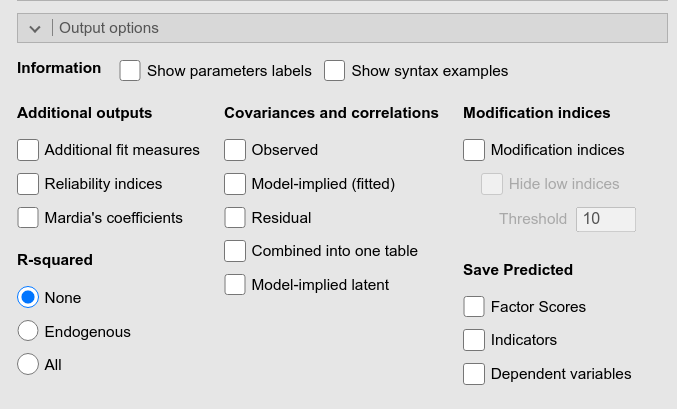
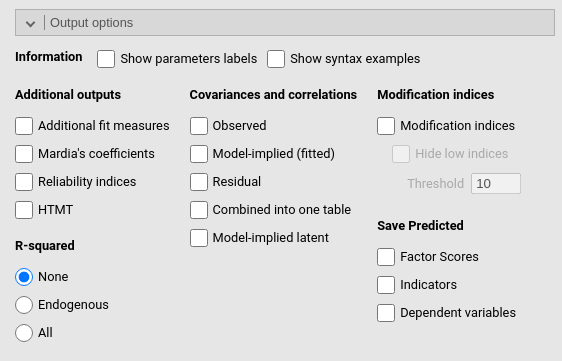
updates

diff --git a/docs/syntax.html b/docs/syntax.html
@@ -501,22 +501,102 @@ coefficients.</p>
 <p>By comparing the uniquely assigned label (<code>p2</code>,
 <code>p3</code>, <code>p4</code>), we know which comparison is
 tested.</p>
-</div>
-<div id="model-options" class="section level2">
-<h2>Model Options</h2>
 <p><img src=" pics/syntax/panel_model.png " class="img-responsive" alt=""></p>
 <p>The <span class="option">Estimation Method</span> allows choosing the
 right estimation method available for a model. The <span
 class="option">Automatic</span> option (default) lets
 <code>lavaan</code> choose the right method depending to the type of
 model one is estimating.</p>
+<p><img src=" pics/syntax/panel_model2.png " class="img-responsive" alt=""></p>
 <p><span class="option">Constraints tests</span> computes the <span
 class="math inline">\(\chi^2\)</span> test for contrainted coefficients
 (if any). In case one has more than one contraints, each constraint is
 tested uniquely (if <span class="option">Univariate</span> is flagged)
 and in addition to the previous ones (if <span
 class="option">Cumulative</span> is flagged).</p>
-<p>Options are:</p>
+<p>Under <span class="option">Data</span> one can decide how to handle
+missing values.</p>
+<p>The options for this panel are are:</p>
+<table class="options">
+<tr>
+<td>
+<span class="option">Method</span>
+</td>
+<td>
+The estimator to be used (cf. lavaan R package). Can be one of the
+following: “ML” for maximum likelihood, “GLS” for (normal theory)
+generalized least squares, “WLS” for weighted least squares (sometimes
+called ADF estimation), “ULS” for unweighted least squares, “DWLS” for
+diagonally weighted least squares, and “DLS” for
+distributionally-weighted least squares. These are the main options that
+affect the estimation. For convenience, the “ML” option can be extended
+as “MLM”, “MLMV”, “MLMVS”, “MLF”, and “MLR”. The estimation will still
+be plain “ML”, but now with robust standard errors and a robust (scaled)
+test statistic. For “MLM”, “MLMV”, “MLMVS”, classic robust standard
+errors are used (se=“robust.sem”); for “MLF”, standard errors are based
+on first-order derivatives (information = “first.order”); for “MLR”,
+<code>Huber-White</code> robust standard errors are used
+(se=“robust.huber.white”). In addition, “MLM” will compute a
+Satorra-Bentler scaled (mean adjusted) test statistic
+(test=“satorra.bentler”), “MLMVS” will compute a mean and variance
+adjusted test statistic (Satterthwaite style)
+(test=“mean.var.adjusted”), “MLMV” will compute a mean and variance
+adjusted test statistic (scaled and shifted) (test=“scaled.shifted”),
+and “MLR” will compute a test statistic which is asymptotically
+equivalent to the Yuan-Bentler T2-star test statistic
+(test=“yuan.bentler.mplus”). Analogously, the estimators “WLSM” and
+“WLSMV” imply the “DWLS” estimator (not the “WLS” estimator) with robust
+standard errors and a mean or mean and variance adjusted test statistic.
+Estimators “ULSM” and “ULSMV” imply the “ULS” estimator with robust
+standard errors and a mean or mean and variance adjusted test statistic.
+</td>
+</tr>
+<tr>
+<td>
+<span class="option">ML likelihood approach</span>
+</td>
+<td>
+Only relevant for ML estimation. If “Wishart”, the Wishart likelihood
+approach is used. In this approach, the covariance matrix has been
+divided by N-1, and both standard errors and test statistics are based
+on N-1. If “Normal” or “Automatic”, the normal likelihood approach is
+used. Here, the covariance matrix has been divided by N, and both
+standard errors and test statistics are based on N.
+</td>
+</tr>
+<tr>
+<td>
+<span class="option">Missing values</span>
+</td>
+<td>
+Handling of missing values. <code>listwise</code> delete rows with
+missing. <code>FIML</code> for ‘full information’ maximum likelihood
+estimation. <code>FIML (including fixed x)</code> for ‘full information’
+maximum likelihood estimation that includes also the fixed exogenous
+variables. <code>Two stages (robust)</code> uses a two stage appraoch
+whereas <code>Pairwise</code> deletes case pairwise before computing the
+covariances between variables.
+</td>
+</tr>
+<tr>
+<td>
+<span class="option">Univariate</span>
+</td>
+<td>
+Score test (or Lagrange Multiplier test) for fixed or constrained
+parameters in model.
+</td>
+</tr>
+<tr>
+<td>
+<span class="option">Cumulative</span>
+</td>
+<td>
+Score test for all fixed or constrained parameters in model (cumulative
+tests).
+</td>
+</tr>
+</table>
 </div>
 <div id="type-of-models" class="section level2">
 <h2>Type of models</h2>
@@ -831,7 +911,9 @@ shows additional reliability indices
 </td>
 <td>
 <code>TRUE</code> or <code>FALSE</code> (default), show
-Heterotrait-monotrait (HTMT) ratio of correlations
+Heterotrait-monotrait (HTMT) ratio of correlations as reccomended by
+<span class="citation">Henseler, Ringle, and Sarstedt (<a
+href="#ref-henseler2015new" role="doc-biblioref">2015</a>)</span>
 </td>
 </tr>
 <tr>
@@ -1092,6 +1174,12 @@ or <a href="mailto:mcfanda@gmail.com">send me an email</a>
 Epskamp, Sacha. 2015. <span>“semPlot: Unified Visualizations of
 Structural Equation Models.”</span> <em>Structural Equation Modeling: A
 Multidisciplinary Journal</em> 22 (3): 474–83.
+</div>
+<div id="ref-henseler2015new" class="csl-entry">
+Henseler, Jörg, Christian M Ringle, and Marko Sarstedt. 2015. <span>“A
+New Criterion for Assessing Discriminant Validity in Variance-Based
+Structural Equation Modeling.”</span> <em>Journal of the Academy of
+Marketing Science</em> 43: 115–35.
 </div>
 <div id="ref-predict" class="csl-entry">
 Rooij, Mark de, Julian D. Karch, Marjolein Fokkema, Zsuzsa Bakk, Bunga

diff --git a/docs/gui.html b/docs/gui.html
@@ -533,13 +533,96 @@ right estimation method available for a model. The <span
 class="option">Automatic</span> option (default) lets
 <code>lavaan</code> choose the right method depending to the type of
 model one is estimating.</p>
+<p><img src=" pics/syntax/panel_model2.png " class="img-responsive" alt=""></p>
 <p><span class="option">Constraints tests</span> computes the <span
 class="math inline">\(\chi^2\)</span> test for contrainted coefficients
 (if any). In case one has more than one contraints, each constraint is
 tested uniquely (if <span class="option">Univariate</span> is flagged)
 and in addition to the previous ones (if <span
 class="option">Cumulative</span> is flagged).</p>
-<p>Options are:</p>
+<p>Under <span class="option">Data</span> one can decide how to handle
+missing values.</p>
+<p>The options for this panel are are:</p>
+<table class="options">
+<tr>
+<td>
+<span class="option">Method</span>
+</td>
+<td>
+The estimator to be used (cf. lavaan R package). Can be one of the
+following: “ML” for maximum likelihood, “GLS” for (normal theory)
+generalized least squares, “WLS” for weighted least squares (sometimes
+called ADF estimation), “ULS” for unweighted least squares, “DWLS” for
+diagonally weighted least squares, and “DLS” for
+distributionally-weighted least squares. These are the main options that
+affect the estimation. For convenience, the “ML” option can be extended
+as “MLM”, “MLMV”, “MLMVS”, “MLF”, and “MLR”. The estimation will still
+be plain “ML”, but now with robust standard errors and a robust (scaled)
+test statistic. For “MLM”, “MLMV”, “MLMVS”, classic robust standard
+errors are used (se=“robust.sem”); for “MLF”, standard errors are based
+on first-order derivatives (information = “first.order”); for “MLR”,
+<code>Huber-White</code> robust standard errors are used
+(se=“robust.huber.white”). In addition, “MLM” will compute a
+Satorra-Bentler scaled (mean adjusted) test statistic
+(test=“satorra.bentler”), “MLMVS” will compute a mean and variance
+adjusted test statistic (Satterthwaite style)
+(test=“mean.var.adjusted”), “MLMV” will compute a mean and variance
+adjusted test statistic (scaled and shifted) (test=“scaled.shifted”),
+and “MLR” will compute a test statistic which is asymptotically
+equivalent to the Yuan-Bentler T2-star test statistic
+(test=“yuan.bentler.mplus”). Analogously, the estimators “WLSM” and
+“WLSMV” imply the “DWLS” estimator (not the “WLS” estimator) with robust
+standard errors and a mean or mean and variance adjusted test statistic.
+Estimators “ULSM” and “ULSMV” imply the “ULS” estimator with robust
+standard errors and a mean or mean and variance adjusted test statistic.
+</td>
+</tr>
+<tr>
+<td>
+<span class="option">ML likelihood approach</span>
+</td>
+<td>
+Only relevant for ML estimation. If “Wishart”, the Wishart likelihood
+approach is used. In this approach, the covariance matrix has been
+divided by N-1, and both standard errors and test statistics are based
+on N-1. If “Normal” or “Automatic”, the normal likelihood approach is
+used. Here, the covariance matrix has been divided by N, and both
+standard errors and test statistics are based on N.
+</td>
+</tr>
+<tr>
+<td>
+<span class="option">Missing values</span>
+</td>
+<td>
+Handling of missing values. <code>listwise</code> delete rows with
+missing. <code>FIML</code> for ‘full information’ maximum likelihood
+estimation. <code>FIML (including fixed x)</code> for ‘full information’
+maximum likelihood estimation that includes also the fixed exogenous
+variables. <code>Two stages (robust)</code> uses a two stage appraoch
+whereas <code>Pairwise</code> deletes case pairwise before computing the
+covariances between variables.
+</td>
+</tr>
+<tr>
+<td>
+<span class="option">Univariate</span>
+</td>
+<td>
+Score test (or Lagrange Multiplier test) for fixed or constrained
+parameters in model.
+</td>
+</tr>
+<tr>
+<td>
+<span class="option">Cumulative</span>
+</td>
+<td>
+Score test for all fixed or constrained parameters in model (cumulative
+tests).
+</td>
+</tr>
+</table>
 </div>
 <div id="type-of-models" class="section level2">
 <h2>Type of models</h2>
@@ -799,7 +882,9 @@ shows additional reliability indices
 </td>
 <td>
 <code>TRUE</code> or <code>FALSE</code> (default), show
-Heterotrait-monotrait (HTMT) ratio of correlations
+Heterotrait-monotrait (HTMT) ratio of correlations as reccomended by
+<span class="citation">Henseler, Ringle, and Sarstedt (<a
+href="#ref-henseler2015new" role="doc-biblioref">2015</a>)</span>
 </td>
 </tr>
 <tr>
@@ -929,6 +1014,12 @@ or <a href="mailto:mcfanda@gmail.com">send me an email</a>
 Epskamp, Sacha. 2015. <span>“semPlot: Unified Visualizations of
 Structural Equation Models.”</span> <em>Structural Equation Modeling: A
 Multidisciplinary Journal</em> 22 (3): 474–83.
+</div>
+<div id="ref-henseler2015new" class="csl-entry">
+Henseler, Jörg, Christian M Ringle, and Marko Sarstedt. 2015. <span>“A
+New Criterion for Assessing Discriminant Validity in Variance-Based
+Structural Equation Modeling.”</span> <em>Journal of the Academy of
+Marketing Science</em> 43: 115–35.
 </div>
 <div id="ref-predict" class="csl-entry">
 Rooij, Mark de, Julian D. Karch, Marjolein Fokkema, Zsuzsa Bakk, Bunga
